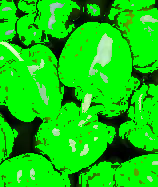
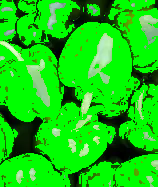
fixed the green finder more, started on readme, have questions, will ask on monday

diff --git a/6.7/sixseven_func.py b/6.7/sixseven_func.py
@@ -1,5 +1,5 @@
 def colour(r, g, b):
-        if  (1 <= r <= 238 and 54 <= g <= 255 and 1 <= b <= 138):
+        if  (1 <= r <= 200 and 54 <= g <= 255 and 1 <= b <= 120):
             return "green"
         
 def search(listname, min, max):

diff --git a/6.7/README.md b/6.7/README.md
@@ -1,0 +1,6 @@
+My code is looking for the amount of green in an image, and calculating it's percentage by
+subtracting the amount of green pixels from the total pixel count. I really don't know what: 
+Justify your feature detection with an explanation of how your chosen feature can be accurately identified (3 pts)
+means, but all my code does is find the green in an image, and rate the image based on that number.
+My is_target_feature function is basically the colour function, both have the same purpose.
+I don't really ever know what to put here, I'll ask you tomorrow.
